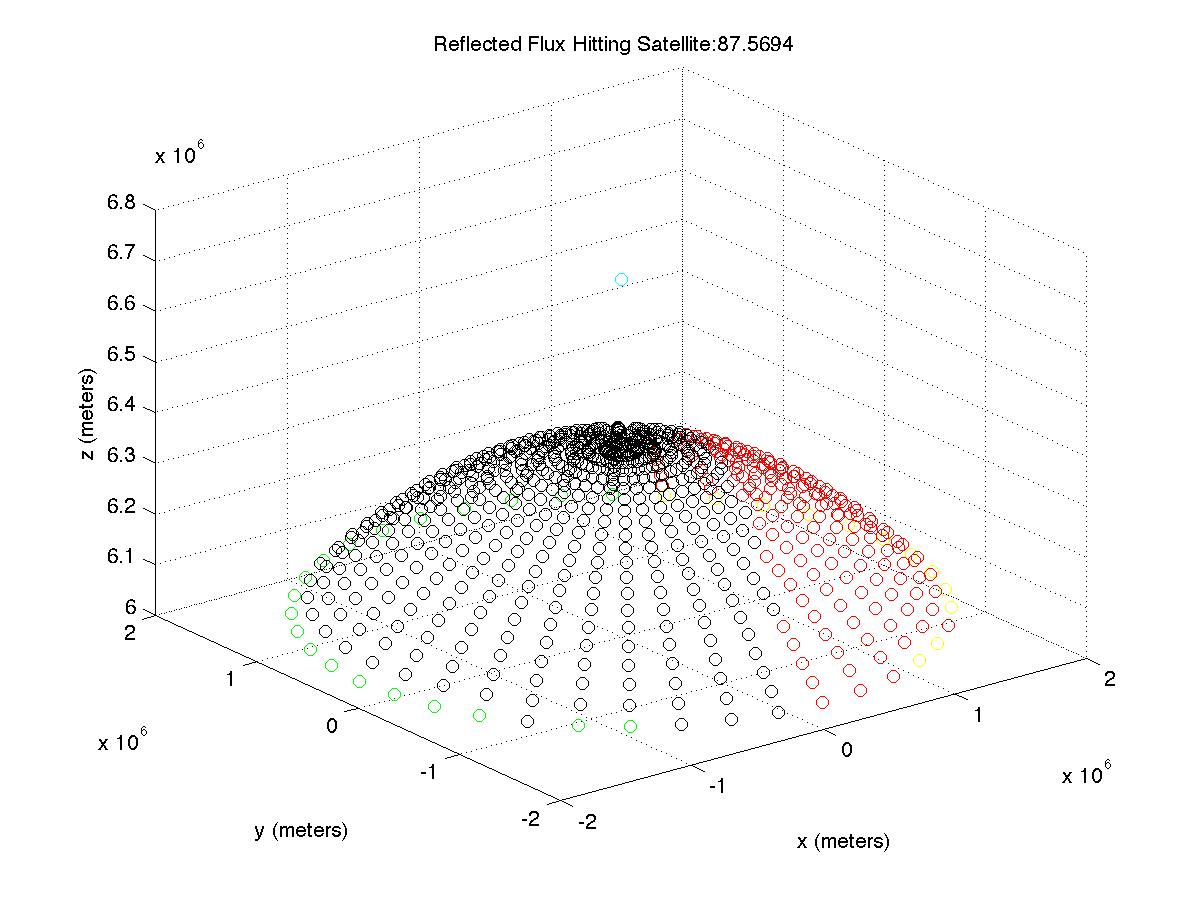
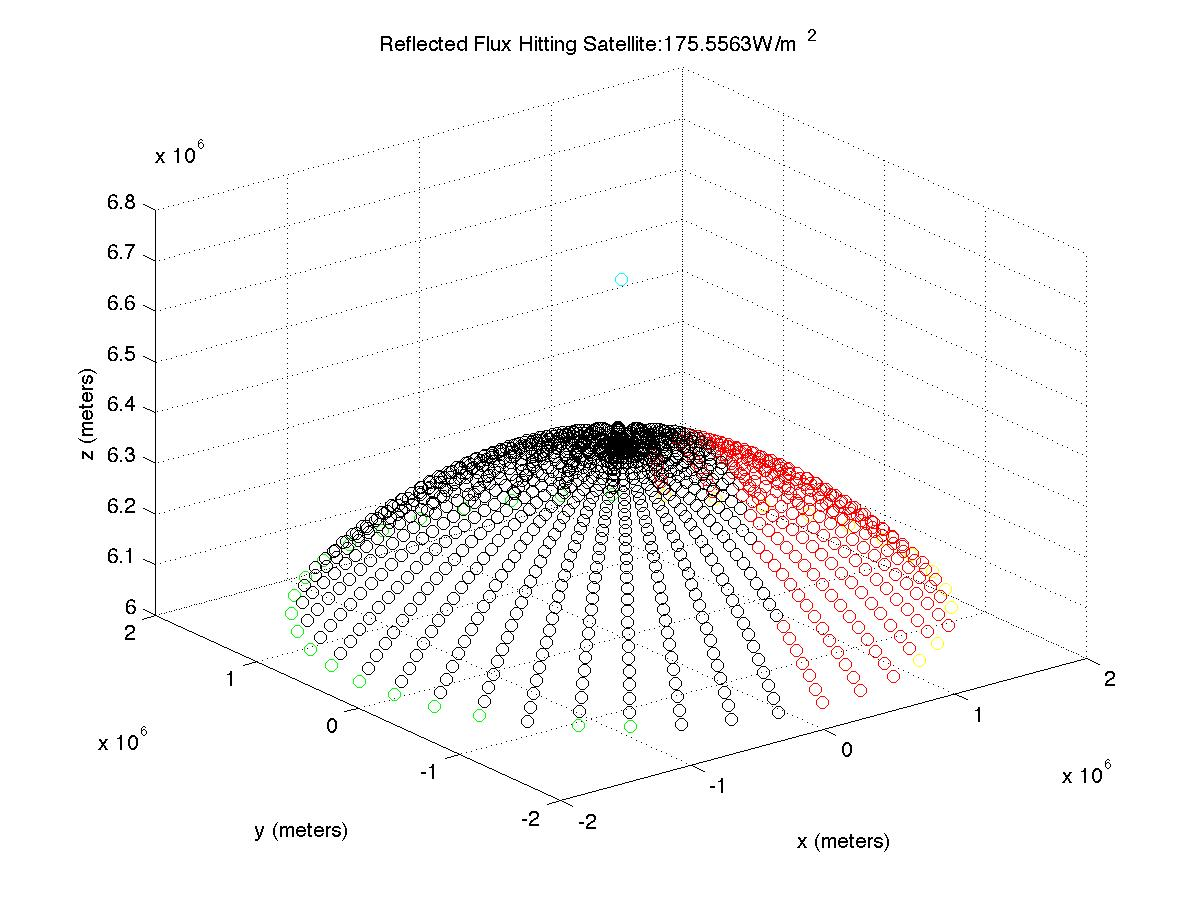
flux calculation complete; time to check on the acceleration of the satellite

Changed region(s): [[0.2465, 0.4667, 0.801, 0.7467], [0.3081, 0.0311, 0.6778, 0.0622]]

diff --git a/Satellite_Simulation_1/Graphical_Calculation.m b/Satellite_Simulation_1/Graphical_Calculation.m
@@ -11,6 +11,8 @@ function main
     E_s=1360;
     e=1-albedo;
     M_b=E_s/4;
+    
+    MASS_SAT=100 %kg
     Ac=.5;
     
     SUN_ORIGINAL_X=3.581118709561659*10^10;
@@ -54,7 +56,7 @@ function main
         MAX_DISTANCE_TO_SATELLITE=DISTANCE_FROM_EARTH_CENTER_TO_SAT*sin(MAX_SAT_ANGLE);
         MAX_DISTANCE_TO_SUN=DISTANCE_FROM_EARTH_CENTER_TO_SUN*sin(MAX_SUN_ANGLE);
         
-        NUM_STEPS_BETA=20;
+        NUM_STEPS_BETA=30;
         NUM_STEPS_THETA=40;
         
         INTERVAL_BETA=MAX_SAT_ANGLE/NUM_STEPS_BETA;
@@ -89,7 +91,7 @@ function main
                     
                     sunAngle=acos(dot(a,b)/(norm(a)*norm(b))); % angle between a and b
                     
-                    dflux=(albedo*E_s*cos(sunAngle)+e*M_b)*Ac/(pi*r^2)*cos(alpha)*areaEarthElement; % flux calculation, returning a dlux value in watts or (Joules/s)
+                    dflux=(albedo*E_s*cos(sunAngle)+e*M_b)/(pi*r^2)*cos(alpha)*areaEarthElement; % flux calculation, returning a dlux value in watts/m^2
                     
                     NET_FLUX=NET_FLUX+dflux;
                     
@@ -103,8 +105,10 @@ function main
                 hold on;
             end
         end
+        
+        %Now
 
-        title(strcat('Reflected Flux Hitting Satellite: ',num2str(NET_FLUX)));
+        title(strcat(strcat('Reflected Flux Hitting Satellite: ',num2str(NET_FLUX),'W/m^2')));
         tline = fgets(fileID);
         xlabel('x (meters)');
         ylabel('y (meters)');
